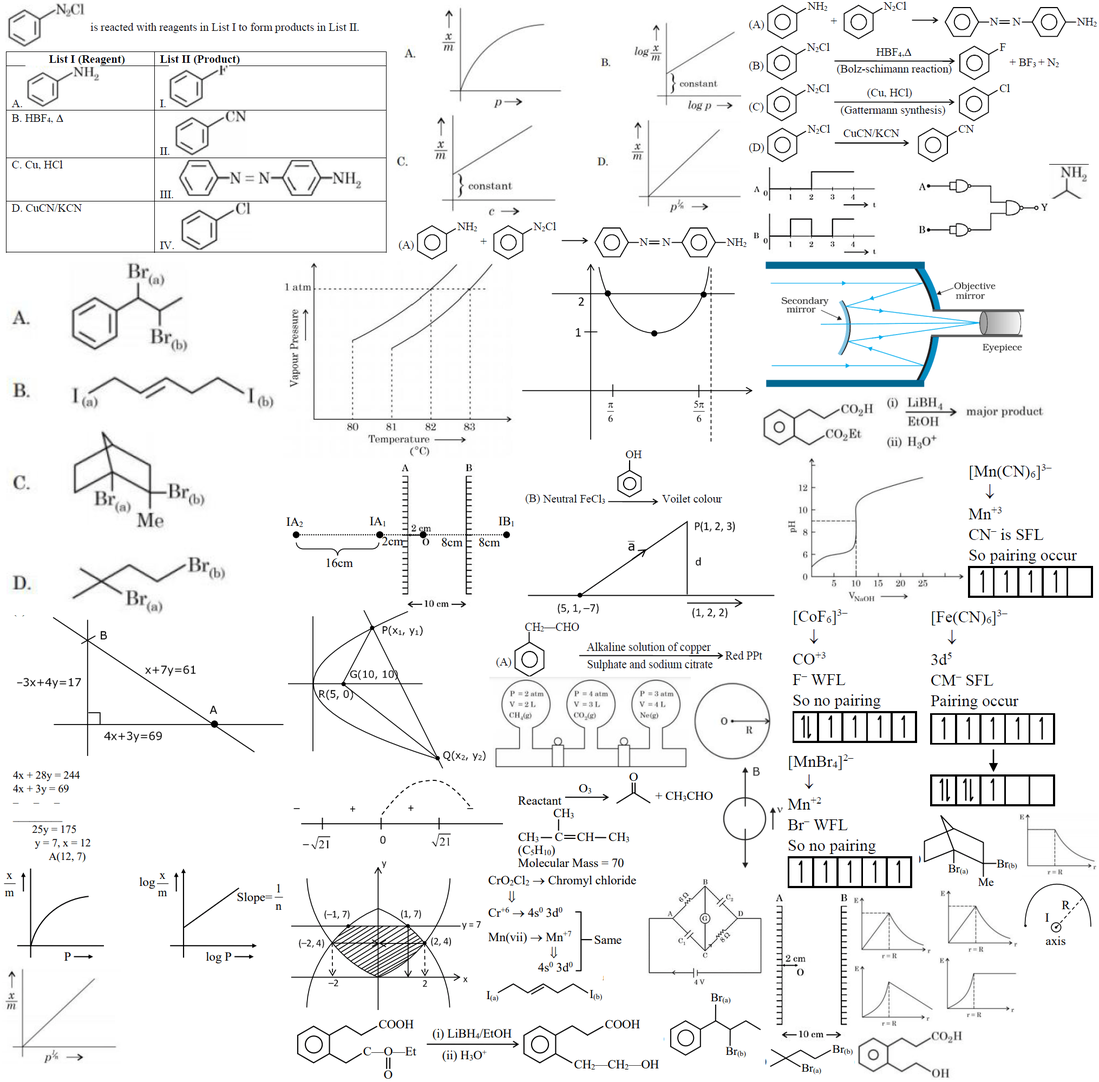
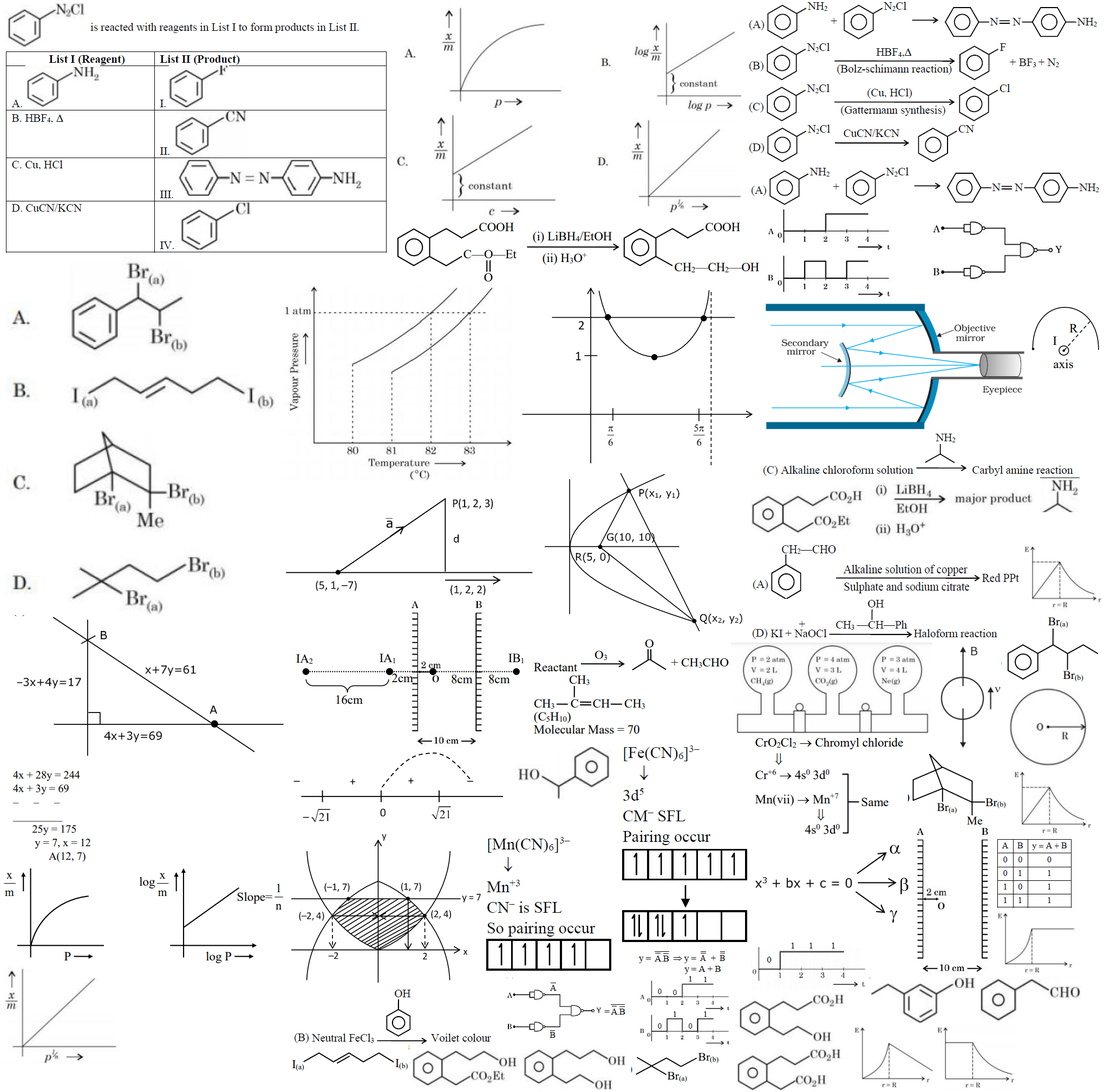
fixed

diff --git a/img/jee/mains/prev/jee_mn_8_apr_2023_s1.css b/img/jee/mains/prev/jee_mn_8_apr_2023_s1.css
@@ -8,175 +8,187 @@ Responsive: <div class="yourspritesname"></div>
 
 
 .JEEMAINS_8APRIL_2023_S1_Q_38 {max-width:237px; max-height:207px; }
-.JEEMAINS_8APRIL_2023_S1_Q_38::after {content: '\00a0';display: inline-block; width:237px; height:207px; background-position: 66.0345789180145% 90.11725293132328%;background-size: 856.5400843881856% 965.2173913043479%;background-image: url(jee_mn_8_apr_2023_s1-0.png);padding: 0; }
+.JEEMAINS_8APRIL_2023_S1_Q_38::after {content: '\00a0';display: inline-block; width:237px; height:207px; background-position: 0.1652892561983471% 90.72847682119205%;background-size: 355.2742616033755% 245.89371980676327%;background-image: url(jee_mn_8_apr_2023_s1-1.png);padding: 0; }
 div.JEEMAINS_8APRIL_2023_S1_Q_38::after {max-width:237px; width:100%;height:0;padding: 0 0 87.34177215189874% 0;}
 .JEEMAINS_8APRIL_2023_S1_Q_41 {max-width:148px; max-height:158px; }
-.JEEMAINS_8APRIL_2023_S1_Q_41::after {content: '\00a0';display: inline-block; width:148px; height:158px; background-position: 67.85334750265675% 67.93478260869566%;background-size: 1371.6216216216217% 1264.5569620253164%;background-image: url(jee_mn_8_apr_2023_s1-0.png);padding: 0; }
+.JEEMAINS_8APRIL_2023_S1_Q_41::after {content: '\00a0';display: inline-block; width:148px; height:158px; background-position: 98.36065573770492% 67.83216783216783%;background-size: 1377.7027027027027% 1276.5822784810127%;background-image: url(jee_mn_8_apr_2023_s1-0.png);padding: 0; }
 div.JEEMAINS_8APRIL_2023_S1_Q_41::after {max-width:148px; width:100%;height:0;padding: 0 0 106.75675675675676% 0;}
 .JEEMAINS_8APRIL_2023_S1_Q_41_O_1 {max-width:152px; max-height:125px; }
-.JEEMAINS_8APRIL_2023_S1_Q_41_O_1::after {content: '\00a0';display: inline-block; width:152px; height:125px; background-position: 83.91906283280085% 94.82114255205552%;background-size: 1335.5263157894738% 1598.4%;background-image: url(jee_mn_8_apr_2023_s1-0.png);padding: 0; }
+.JEEMAINS_8APRIL_2023_S1_Q_41_O_1::after {content: '\00a0';display: inline-block; width:152px; height:125px; background-position: 83.51881293057764% 99.89429175475686%;background-size: 1341.4473684210527% 1613.6%;background-image: url(jee_mn_8_apr_2023_s1-0.png);padding: 0; }
 div.JEEMAINS_8APRIL_2023_S1_Q_41_O_1::after {max-width:152px; width:100%;height:0;padding: 0 0 82.23684210526316% 0;}
 .JEEMAINS_8APRIL_2023_S1_Q_41_O_2 {max-width:148px; max-height:123px; }
-.JEEMAINS_8APRIL_2023_S1_Q_41_O_2::after {content: '\00a0';display: inline-block; width:148px; height:123px; background-position: 99.94686503719447% 79.78666666666666%;background-size: 1371.6216216216217% 1624.3902439024391%;background-image: url(jee_mn_8_apr_2023_s1-0.png);padding: 0; }
+.JEEMAINS_8APRIL_2023_S1_Q_41_O_2::after {content: '\00a0';display: inline-block; width:148px; height:123px; background-position: 91.43310417768376% 99.78880675818374%;background-size: 1377.7027027027027% 1639.8373983739837%;background-image: url(jee_mn_8_apr_2023_s1-0.png);padding: 0; }
 div.JEEMAINS_8APRIL_2023_S1_Q_41_O_2::after {max-width:148px; width:100%;height:0;padding: 0 0 83.10810810810811% 0;}
 .JEEMAINS_8APRIL_2023_S1_Q_41_O_3 {max-width:161px; max-height:122px; }
-.JEEMAINS_8APRIL_2023_S1_Q_41_O_3::after {content: '\00a0';display: inline-block; width:161px; height:122px; background-position: 92.50936329588015% 93.97654584221749%;background-size: 1260.8695652173913% 1637.704918032787%;background-image: url(jee_mn_8_apr_2023_s1-0.png);padding: 0; }
+.JEEMAINS_8APRIL_2023_S1_Q_41_O_3::after {content: '\00a0';display: inline-block; width:161px; height:122px; background-position: 97.76357827476038% 88.7071240105541%;background-size: 1266.4596273291925% 1653.27868852459%;background-image: url(jee_mn_8_apr_2023_s1-0.png);padding: 0; }
 div.JEEMAINS_8APRIL_2023_S1_Q_41_O_3::after {max-width:161px; width:100%;height:0;padding: 0 0 75.77639751552795% 0;}
 .JEEMAINS_8APRIL_2023_S1_Q_41_O_4 {max-width:147px; max-height:127px; }
-.JEEMAINS_8APRIL_2023_S1_Q_41_O_4::after {content: '\00a0';display: inline-block; width:147px; height:127px; background-position: 83.69622942113648% 88.08123997862106%;background-size: 1380.952380952381% 1573.2283464566929%;background-image: url(jee_mn_8_apr_2023_s1-0.png);padding: 0; }
+.JEEMAINS_8APRIL_2023_S1_Q_41_O_4::after {content: '\00a0';display: inline-block; width:147px; height:127px; background-position: 99.94714587737843% 52.91005291005291%;background-size: 1387.0748299319728% 1588.1889763779527%;background-image: url(jee_mn_8_apr_2023_s1-0.png);padding: 0; }
 div.JEEMAINS_8APRIL_2023_S1_Q_41_O_4::after {max-width:147px; width:100%;height:0;padding: 0 0 86.39455782312925% 0;}
 .JEEMAINS_8APRIL_2023_S1_Q_46 {max-width:552px; max-height:173px; }
-.JEEMAINS_8APRIL_2023_S1_Q_46::after {content: '\00a0';display: inline-block; width:552px; height:173px; background-position: 93.70771312584574% 16.602739726027398%;background-size: 367.7536231884058% 1154.913294797688%;background-image: url(jee_mn_8_apr_2023_s1-0.png);padding: 0; }
+.JEEMAINS_8APRIL_2023_S1_Q_46::after {content: '\00a0';display: inline-block; width:552px; height:173px; background-position: 94.88903833221251% 20.66160520607375%;background-size: 369.3840579710145% 1165.8959537572255%;background-image: url(jee_mn_8_apr_2023_s1-0.png);padding: 0; }
 div.JEEMAINS_8APRIL_2023_S1_Q_46::after {max-width:552px; width:100%;height:0;padding: 0 0 31.340579710144926% 0;}
 .JEEMAINS_8APRIL_2023_S1_Q_46_O_1 {max-width:292px; max-height:115px; }
-.JEEMAINS_8APRIL_2023_S1_Q_46_O_1::after {content: '\00a0';display: inline-block; width:292px; height:115px; background-position: 50.08237232289951% 45.81005586592179%;background-size: 307.8767123287671% 411.30434782608694%;background-image: url(jee_mn_8_apr_2023_s1-1.png);padding: 0; }
+.JEEMAINS_8APRIL_2023_S1_Q_46_O_1::after {content: '\00a0';display: inline-block; width:292px; height:115px; background-position: 98.36363636363636% 99.49238578680203%;background-size: 288.35616438356163% 442.60869565217394%;background-image: url(jee_mn_8_apr_2023_s1-1.png);padding: 0; }
 div.JEEMAINS_8APRIL_2023_S1_Q_46_O_1::after {max-width:292px; width:100%;height:0;padding: 0 0 39.38356164383562% 0;}
 .JEEMAINS_8APRIL_2023_S1_Q_46_O_2 {max-width:301px; max-height:116px; }
-.JEEMAINS_8APRIL_2023_S1_Q_46_O_2::after {content: '\00a0';display: inline-block; width:301px; height:116px; background-position: 99.83277591973244% 47.05882352941177%;background-size: 298.67109634551497% 407.7586206896552%;background-image: url(jee_mn_8_apr_2023_s1-1.png);padding: 0; }
+.JEEMAINS_8APRIL_2023_S1_Q_46_O_2::after {content: '\00a0';display: inline-block; width:301px; height:116px; background-position: 44.177449168207026% 99.74554707379134%;background-size: 279.734219269103% 438.7931034482759%;background-image: url(jee_mn_8_apr_2023_s1-1.png);padding: 0; }
 div.JEEMAINS_8APRIL_2023_S1_Q_46_O_2::after {max-width:301px; width:100%;height:0;padding: 0 0 38.538205980066444% 0;}
 .JEEMAINS_8APRIL_2023_S1_Q_46_O_3 {max-width:302px; max-height:117px; }
-.JEEMAINS_8APRIL_2023_S1_Q_46_O_3::after {content: '\00a0';display: inline-block; width:302px; height:117px; background-position: 0.16750418760469013% 46.06741573033708%;background-size: 297.682119205298% 404.2735042735043%;background-image: url(jee_mn_8_apr_2023_s1-1.png);padding: 0; }
+.JEEMAINS_8APRIL_2023_S1_Q_46_O_3::after {content: '\00a0';display: inline-block; width:302px; height:117px; background-position: 44.25925925925926% 69.89795918367346%;background-size: 278.8079470198675% 435.04273504273505%;background-image: url(jee_mn_8_apr_2023_s1-1.png);padding: 0; }
 div.JEEMAINS_8APRIL_2023_S1_Q_46_O_3::after {max-width:302px; width:100%;height:0;padding: 0 0 38.741721854304636% 0;}
 .JEEMAINS_8APRIL_2023_S1_Q_46_O_4 {max-width:298px; max-height:112px; }
-.JEEMAINS_8APRIL_2023_S1_Q_46_O_4::after {content: '\00a0';display: inline-block; width:298px; height:112px; background-position: 0.16638935108153077% 78.11634349030471%;background-size: 301.67785234899327% 422.32142857142856%;background-image: url(jee_mn_8_apr_2023_s1-1.png);padding: 0; }
+.JEEMAINS_8APRIL_2023_S1_Q_46_O_4::after {content: '\00a0';display: inline-block; width:298px; height:112px; background-position: 99.63235294117646% 69.0176322418136%;background-size: 282.5503355704698% 454.4642857142857%;background-image: url(jee_mn_8_apr_2023_s1-1.png);padding: 0; }
 div.JEEMAINS_8APRIL_2023_S1_Q_46_O_4::after {max-width:298px; width:100%;height:0;padding: 0 0 37.58389261744966% 0;}
 .JEEMAINS_8APRIL_2023_S1_Q_56 {max-width:153px; max-height:275px; }
-.JEEMAINS_8APRIL_2023_S1_Q_56::after {content: '\00a0';display: inline-block; width:153px; height:275px; background-position: 75.75919019712308% 95.64712710388856%;background-size: 1326.797385620915% 726.5454545454545%;background-image: url(jee_mn_8_apr_2023_s1-0.png);padding: 0; }
+.JEEMAINS_8APRIL_2023_S1_Q_56::after {content: '\00a0';display: inline-block; width:153px; height:275px; background-position: 89.18345705196182% 87.60045924225028%;background-size: 1332.6797385620914% 733.4545454545455%;background-image: url(jee_mn_8_apr_2023_s1-0.png);padding: 0; }
 div.JEEMAINS_8APRIL_2023_S1_Q_56::after {max-width:153px; width:100%;height:0;padding: 0 0 179.73856209150327% 0;}
 .JEEMAINS_8APRIL_2023_S1_Q_69 {max-width:542px; max-height:117px; }
-.JEEMAINS_8APRIL_2023_S1_Q_69::after {content: '\00a0';display: inline-block; width:542px; height:117px; background-position: 94.01881720430107% 38.33067517278044%;background-size: 374.5387453874539% 1707.6923076923076%;background-image: url(jee_mn_8_apr_2023_s1-0.png);padding: 0; }
+.JEEMAINS_8APRIL_2023_S1_Q_69::after {content: '\00a0';display: inline-block; width:542px; height:117px; background-position: 92.0507682030728% 46.421052631578945%;background-size: 376.19926199261994% 1723.931623931624%;background-image: url(jee_mn_8_apr_2023_s1-0.png);padding: 0; }
 div.JEEMAINS_8APRIL_2023_S1_Q_69::after {max-width:542px; width:100%;height:0;padding: 0 0 21.58671586715867% 0;}
 .JEEMAINS_8APRIL_2023_S1_Q_69_O_1 {max-width:200px; max-height:77px; }
-.JEEMAINS_8APRIL_2023_S1_Q_69_O_1::after {content: '\00a0';display: inline-block; width:200px; height:77px; background-position: 0.1430615164520744% 99.74747474747475%;background-size: 449.5% 614.2857142857143%;background-image: url(jee_mn_8_apr_2023_s1-1.png);padding: 0; }
+.JEEMAINS_8APRIL_2023_S1_Q_69_O_1::after {content: '\00a0';display: inline-block; width:200px; height:77px; background-position: 41.1636759108211% 99.48453608247422%;background-size: 1019.5% 2619.4805194805194%;background-image: url(jee_mn_8_apr_2023_s1-0.png);padding: 0; }
 div.JEEMAINS_8APRIL_2023_S1_Q_69_O_1::after {max-width:200px; width:100%;height:0;padding: 0 0 38.5% 0;}
 .JEEMAINS_8APRIL_2023_S1_Q_69_O_2 {max-width:197px; max-height:87px; }
-.JEEMAINS_8APRIL_2023_S1_Q_69_O_2::after {content: '\00a0';display: inline-block; width:197px; height:87px; background-position: 70.65527065527066% 73.83419689119171%;background-size: 456.34517766497464% 543.6781609195402%;background-image: url(jee_mn_8_apr_2023_s1-1.png);padding: 0; }
+.JEEMAINS_8APRIL_2023_S1_Q_69_O_2::after {content: '\00a0';display: inline-block; width:197px; height:87px; background-position: 73.7785016286645% 99.89637305699482%;background-size: 1035.0253807106599% 2318.390804597701%;background-image: url(jee_mn_8_apr_2023_s1-0.png);padding: 0; }
 div.JEEMAINS_8APRIL_2023_S1_Q_69_O_2::after {max-width:197px; width:100%;height:0;padding: 0 0 44.16243654822335% 0;}
 .JEEMAINS_8APRIL_2023_S1_Q_69_O_3 {max-width:207px; max-height:88px; }
-.JEEMAINS_8APRIL_2023_S1_Q_69_O_3::after {content: '\00a0';display: inline-block; width:207px; height:88px; background-position: 43.35260115606936% 98.18181818181819%;background-size: 434.2995169082126% 537.5%;background-image: url(jee_mn_8_apr_2023_s1-1.png);padding: 0; }
+.JEEMAINS_8APRIL_2023_S1_Q_69_O_3::after {content: '\00a0';display: inline-block; width:207px; height:88px; background-position: 52.29257641921397% 99.94815966822188%;background-size: 985.024154589372% 2292.0454545454545%;background-image: url(jee_mn_8_apr_2023_s1-0.png);padding: 0; }
 div.JEEMAINS_8APRIL_2023_S1_Q_69_O_3::after {max-width:207px; width:100%;height:0;padding: 0 0 42.51207729468599% 0;}
 .JEEMAINS_8APRIL_2023_S1_Q_69_O_4 {max-width:216px; max-height:92px; }
-.JEEMAINS_8APRIL_2023_S1_Q_69_O_4::after {content: '\00a0';display: inline-block; width:216px; height:92px; background-position: 86.99007717750827% 99.79013641133264%;background-size: 939.8148148148148% 2171.7391304347825%;background-image: url(jee_mn_8_apr_2023_s1-0.png);padding: 0; }
+.JEEMAINS_8APRIL_2023_S1_Q_69_O_4::after {content: '\00a0';display: inline-block; width:216px; height:92px; background-position: 74.54744925946243% 95.32467532467533%;background-size: 943.9814814814815% 2192.391304347826%;background-image: url(jee_mn_8_apr_2023_s1-0.png);padding: 0; }
 div.JEEMAINS_8APRIL_2023_S1_Q_69_O_4::after {max-width:216px; width:100%;height:0;padding: 0 0 42.592592592592595% 0;}
 .JEEMAINS_8APRIL_2023_S1_Q_73_O_1 {max-width:191px; max-height:97px; }
-.JEEMAINS_8APRIL_2023_S1_Q_73_O_1::after {content: '\00a0';display: inline-block; width:191px; height:97px; background-position: 42.93785310734463% 74.46808510638297%;background-size: 470.6806282722513% 487.62886597938143%;background-image: url(jee_mn_8_apr_2023_s1-1.png);padding: 0; }
+.JEEMAINS_8APRIL_2023_S1_Q_73_O_1::after {content: '\00a0';display: inline-block; width:191px; height:97px; background-position: 51.298701298701296% 71.875%;background-size: 1067.5392670157069% 2079.381443298969%;background-image: url(jee_mn_8_apr_2023_s1-0.png);padding: 0; }
 div.JEEMAINS_8APRIL_2023_S1_Q_73_O_1::after {max-width:191px; width:100%;height:0;padding: 0 0 50.78534031413613% 0;}
 .JEEMAINS_8APRIL_2023_S1_Q_73_O_2 {max-width:73px; max-height:67px; }
-.JEEMAINS_8APRIL_2023_S1_Q_73_O_2::after {content: '\00a0';display: inline-block; width:73px; height:67px; background-position: 99.02912621359224% 15.69135163127913%;background-size: 2780.821917808219% 2982.089552238806%;background-image: url(jee_mn_8_apr_2023_s1-0.png);padding: 0; }
+.JEEMAINS_8APRIL_2023_S1_Q_73_O_2::after {content: '\00a0';display: inline-block; width:73px; height:67px; background-position: 97.71108850457782% 45.23076923076923%;background-size: 2793.150684931507% 3010.4477611940297%;background-image: url(jee_mn_8_apr_2023_s1-0.png);padding: 0; }
 div.JEEMAINS_8APRIL_2023_S1_Q_73_O_2::after {max-width:73px; width:100%;height:0;padding: 0 0 91.78082191780823% 0;}
 .JEEMAINS_8APRIL_2023_S1_Q_73_O_3 {max-width:193px; max-height:83px; }
-.JEEMAINS_8APRIL_2023_S1_Q_73_O_3::after {content: '\00a0';display: inline-block; width:193px; height:83px; background-position: 71.95467422096317% 95.64102564102564%;background-size: 465.8031088082902% 569.8795180722891%;background-image: url(jee_mn_8_apr_2023_s1-1.png);padding: 0; }
+.JEEMAINS_8APRIL_2023_S1_Q_73_O_3::after {content: '\00a0';display: inline-block; width:193px; height:83px; background-position: 97.72481040086674% 93.27817993795243%;background-size: 1056.4766839378237% 2430.120481927711%;background-image: url(jee_mn_8_apr_2023_s1-0.png);padding: 0; }
 div.JEEMAINS_8APRIL_2023_S1_Q_73_O_3::after {max-width:193px; width:100%;height:0;padding: 0 0 43.005181347150256% 0;}
 .JEEMAINS_8APRIL_2023_S1_Q_73_O_4 {max-width:197px; max-height:87px; }
-.JEEMAINS_8APRIL_2023_S1_Q_73_O_4::after {content: '\00a0';display: inline-block; width:197px; height:87px; background-position: 98.86039886039886% 73.83419689119171%;background-size: 456.34517766497464% 543.6781609195402%;background-image: url(jee_mn_8_apr_2023_s1-1.png);padding: 0; }
+.JEEMAINS_8APRIL_2023_S1_Q_73_O_4::after {content: '\00a0';display: inline-block; width:197px; height:87px; background-position: 87.18783930510315% 93.3678756476684%;background-size: 1035.0253807106599% 2318.390804597701%;background-image: url(jee_mn_8_apr_2023_s1-0.png);padding: 0; }
 div.JEEMAINS_8APRIL_2023_S1_Q_73_O_4::after {max-width:197px; width:100%;height:0;padding: 0 0 44.16243654822335% 0;}
 .JEEMAINS_8APRIL_2023_S1_Q_74 {max-width:717px; max-height:467px; }
-.JEEMAINS_8APRIL_2023_S1_Q_74::after {content: '\00a0';display: inline-block; width:717px; height:467px; background-position: 0.07616146230007616% 0.06531678641410843%;background-size: 283.12412831241284% 427.83725910064237%;background-image: url(jee_mn_8_apr_2023_s1-0.png);padding: 0; }
+.JEEMAINS_8APRIL_2023_S1_Q_74::after {content: '\00a0';display: inline-block; width:717px; height:467px; background-position: 0.07564296520423601% 0.06451612903225806%;background-size: 284.3793584379358% 431.9057815845824%;background-image: url(jee_mn_8_apr_2023_s1-0.png);padding: 0; }
 div.JEEMAINS_8APRIL_2023_S1_Q_74::after {max-width:717px; width:100%;height:0;padding: 0 0 65.13249651324965% 0;}
 .JEEMAINS_8APRIL_2023_S1_Q_78 {max-width:650px; max-height:402px; }
-.JEEMAINS_8APRIL_2023_S1_Q_78::after {content: '\00a0';display: inline-block; width:650px; height:402px; background-position: 52.10144927536232% 0.06265664160401002%;background-size: 312.3076923076923% 497.0149253731343%;background-image: url(jee_mn_8_apr_2023_s1-0.png);padding: 0; }
+.JEEMAINS_8APRIL_2023_S1_Q_78::after {content: '\00a0';display: inline-block; width:650px; height:402px; background-position: 51.7638588912887% 0.06191950464396285%;background-size: 313.6923076923077% 501.7412935323383%;background-image: url(jee_mn_8_apr_2023_s1-0.png);padding: 0; }
 div.JEEMAINS_8APRIL_2023_S1_Q_78::after {max-width:650px; width:100%;height:0;padding: 0 0 61.84615384615385% 0;}
 .JEEMAINS_8APRIL_2023_S1_Q_80 {max-width:510px; max-height:666px; }
-.JEEMAINS_8APRIL_2023_S1_Q_80::after {content: '\00a0';display: inline-block; width:510px; height:666px; background-position: 0.06578947368421052% 35.210210210210214%;background-size: 398.03921568627453% 300%;background-image: url(jee_mn_8_apr_2023_s1-0.png);padding: 0; }
+.JEEMAINS_8APRIL_2023_S1_Q_80::after {content: '\00a0';display: inline-block; width:510px; height:666px; background-position: 0.06540222367560497% 34.715025906735754%;background-size: 399.80392156862746% 302.85285285285283%;background-image: url(jee_mn_8_apr_2023_s1-0.png);padding: 0; }
 div.JEEMAINS_8APRIL_2023_S1_Q_80::after {max-width:510px; width:100%;height:0;padding: 0 0 130.58823529411765% 0;}
 .JEEMAINS_8APRIL_2023_S1_Q_84 {max-width:331px; max-height:272px; }
-.JEEMAINS_8APRIL_2023_S1_Q_84::after {content: '\00a0';display: inline-block; width:331px; height:272px; background-position: 85.40317834020011% 48.60950173812283%;background-size: 613.2930513595167% 734.5588235294117%;background-image: url(jee_mn_8_apr_2023_s1-0.png);padding: 0; }
+.JEEMAINS_8APRIL_2023_S1_Q_84::after {content: '\00a0';display: inline-block; width:331px; height:272px; background-position: 0.19569471624266144% 0.4219409282700422%;background-size: 254.380664652568% 187.13235294117646%;background-image: url(jee_mn_8_apr_2023_s1-1.png);padding: 0; }
 div.JEEMAINS_8APRIL_2023_S1_Q_84::after {max-width:331px; width:100%;height:0;padding: 0 0 82.17522658610272% 0;}
 .JEEMAINS_8APRIL_2023_S1_Q_86 {max-width:448px; max-height:365px; }
-.JEEMAINS_8APRIL_2023_S1_Q_86::after {content: '\00a0';display: inline-block; width:448px; height:365px; background-position: 32.36409608091024% 29.516227801592162%;background-size: 453.125% 547.3972602739726%;background-image: url(jee_mn_8_apr_2023_s1-0.png);padding: 0; }
+.JEEMAINS_8APRIL_2023_S1_Q_86::after {content: '\00a0';display: inline-block; width:448px; height:365px; background-position: 32.181018227529854% 31.840193704600484%;background-size: 455.13392857142856% 552.6027397260274%;background-image: url(jee_mn_8_apr_2023_s1-0.png);padding: 0; }
 div.JEEMAINS_8APRIL_2023_S1_Q_86::after {max-width:448px; width:100%;height:0;padding: 0 0 81.47321428571429% 0;}
 .JEEMAINS_8APRIL_2023_S1_Q_89 {max-width:372px; max-height:172px; }
-.JEEMAINS_8APRIL_2023_S1_Q_89::after {content: '\00a0';display: inline-block; width:372px; height:172px; background-position: 54.523522316043426% 68.45564074479738%;background-size: 545.6989247311828% 1161.6279069767443%;background-image: url(jee_mn_8_apr_2023_s1-0.png);padding: 0; }
+.JEEMAINS_8APRIL_2023_S1_Q_89::after {content: '\00a0';display: inline-block; width:372px; height:172px; background-position: 80.98380323935213% 64.3360433604336%;background-size: 548.1182795698925% 1172.6744186046512%;background-image: url(jee_mn_8_apr_2023_s1-0.png);padding: 0; }
 div.JEEMAINS_8APRIL_2023_S1_Q_89::after {max-width:372px; width:100%;height:0;padding: 0 0 46.236559139784944% 0;}
 .JEEMAINS_8APRIL_2023_S1_S_1 {max-width:358px; max-height:297px; }
-.JEEMAINS_8APRIL_2023_S1_S_1::after {content: '\00a0';display: inline-block; width:358px; height:297px; background-position: 31.9377990430622% 92.7689594356261%;background-size: 567.0391061452514% 672.7272727272727%;background-image: url(jee_mn_8_apr_2023_s1-0.png);padding: 0; }
+.JEEMAINS_8APRIL_2023_S1_S_1::after {content: '\00a0';display: inline-block; width:358px; height:297px; background-position: 31.766805472932777% 88.83720930232558%;background-size: 569.5530726256983% 679.1245791245791%;background-image: url(jee_mn_8_apr_2023_s1-0.png);padding: 0; }
 div.JEEMAINS_8APRIL_2023_S1_S_1::after {max-width:358px; width:100%;height:0;padding: 0 0 82.9608938547486% 0;}
 .JEEMAINS_8APRIL_2023_S1_S_23 {max-width:491px; max-height:208px; }
-.JEEMAINS_8APRIL_2023_S1_S_23::after {content: '\00a0';display: inline-block; width:491px; height:208px; background-position: 62.31319038336582% 52.17877094972067%;background-size: 413.44195519348267% 960.5769230769231%;background-image: url(jee_mn_8_apr_2023_s1-0.png);padding: 0; }
+.JEEMAINS_8APRIL_2023_S1_S_23::after {content: '\00a0';display: inline-block; width:491px; height:208px; background-position: 33.07493540051679% 49.309010503040355%;background-size: 415.27494908350303% 969.7115384615385%;background-image: url(jee_mn_8_apr_2023_s1-0.png);padding: 0; }
 div.JEEMAINS_8APRIL_2023_S1_S_23::after {max-width:491px; width:100%;height:0;padding: 0 0 42.36252545824847% 0;}
 .JEEMAINS_8APRIL_2023_S1_S_27 {max-width:417px; max-height:147px; }
-.JEEMAINS_8APRIL_2023_S1_S_27::after {content: '\00a0';display: inline-block; width:417px; height:147px; background-position: 32.858028518288904% 77.25553754727174%;background-size: 486.810551558753% 1359.1836734693877%;background-image: url(jee_mn_8_apr_2023_s1-0.png);padding: 0; }
+.JEEMAINS_8APRIL_2023_S1_S_27::after {content: '\00a0';display: inline-block; width:417px; height:147px; background-position: 32.675709001233045% 73.79679144385027%;background-size: 488.96882494004797% 1372.108843537415%;background-image: url(jee_mn_8_apr_2023_s1-0.png);padding: 0; }
 div.JEEMAINS_8APRIL_2023_S1_S_27::after {max-width:417px; width:100%;height:0;padding: 0 0 35.25179856115108% 0;}
 .JEEMAINS_8APRIL_2023_S1_S_30 {max-width:437px; max-height:347px; }
-.JEEMAINS_8APRIL_2023_S1_S_30::after {content: '\00a0';display: inline-block; width:437px; height:347px; background-position: 60.32642812303829% 29.19442761962447%;background-size: 464.5308924485126% 575.792507204611%;background-image: url(jee_mn_8_apr_2023_s1-0.png);padding: 0; }
+.JEEMAINS_8APRIL_2023_S1_S_30::after {content: '\00a0';display: inline-block; width:437px; height:347px; background-position: 59.98751560549314% 31.49700598802395%;background-size: 466.5903890160183% 581.2680115273776%;background-image: url(jee_mn_8_apr_2023_s1-0.png);padding: 0; }
 div.JEEMAINS_8APRIL_2023_S1_S_30::after {max-width:437px; width:100%;height:0;padding: 0 0 79.40503432494279% 0;}
 .JEEMAINS_8APRIL_2023_S1_S_4 {max-width:528px; max-height:463px; }
-.JEEMAINS_8APRIL_2023_S1_S_4::after {content: '\00a0';display: inline-block; width:528px; height:463px; background-position: 0.06657789613848203% 74.00651465798046%;background-size: 384.469696969697% 431.53347732181425%;background-image: url(jee_mn_8_apr_2023_s1-0.png);padding: 0; }
+.JEEMAINS_8APRIL_2023_S1_S_4::after {content: '\00a0';display: inline-block; width:528px; height:463px; background-position: 0.06618133686300463% 73.1016731016731%;background-size: 386.17424242424244% 435.6371490280778%;background-image: url(jee_mn_8_apr_2023_s1-0.png);padding: 0; }
 div.JEEMAINS_8APRIL_2023_S1_S_4::after {max-width:528px; width:100%;height:0;padding: 0 0 87.68939393939394% 0;}
 .JEEMAINS_8APRIL_2023_S1_S_41 {max-width:161px; max-height:123px; }
-.JEEMAINS_8APRIL_2023_S1_S_41::after {content: '\00a0';display: inline-block; width:161px; height:123px; background-position: 92.2418405564473% 87.41333333333333%;background-size: 1260.8695652173913% 1624.3902439024391%;background-image: url(jee_mn_8_apr_2023_s1-0.png);padding: 0; }
+.JEEMAINS_8APRIL_2023_S1_S_41::after {content: '\00a0';display: inline-block; width:161px; height:123px; background-position: 99.04153354632588% 74.97360084477296%;background-size: 1266.4596273291925% 1639.8373983739837%;background-image: url(jee_mn_8_apr_2023_s1-0.png);padding: 0; }
 div.JEEMAINS_8APRIL_2023_S1_S_41::after {max-width:161px; width:100%;height:0;padding: 0 0 76.3975155279503% 0;}
+.JEEMAINS_8APRIL_2023_S1_S_46 {max-width:246px; max-height:121px; }
+.JEEMAINS_8APRIL_2023_S1_S_46::after {content: '\00a0';display: inline-block; width:246px; height:121px; background-position: 51.58951477969883% 95.25316455696202%;background-size: 828.8617886178862% 1666.9421487603306%;background-image: url(jee_mn_8_apr_2023_s1-0.png);padding: 0; }
+div.JEEMAINS_8APRIL_2023_S1_S_46::after {max-width:246px; width:100%;height:0;padding: 0 0 49.1869918699187% 0;}
+.JEEMAINS_8APRIL_2023_S1_S_46_1 {max-width:186px; max-height:191px; }
+.JEEMAINS_8APRIL_2023_S1_S_46_1::after {content: '\00a0';display: inline-block; width:186px; height:191px; background-position: 63.24878575283324% 95.6736035049288%;background-size: 1096.236559139785% 1056.0209424083769%;background-image: url(jee_mn_8_apr_2023_s1-0.png);padding: 0; }
+div.JEEMAINS_8APRIL_2023_S1_S_46_1::after {max-width:186px; width:100%;height:0;padding: 0 0 102.68817204301075% 0;}
+.JEEMAINS_8APRIL_2023_S1_S_46_1_a {max-width:150px; max-height:136px; }
+.JEEMAINS_8APRIL_2023_S1_S_46_1_a::after {content: '\00a0';display: inline-block; width:150px; height:136px; background-position: 97.19428268925357% 82.08399787347156%;background-size: 1359.3333333333333% 1483.0882352941176%;background-image: url(jee_mn_8_apr_2023_s1-0.png);padding: 0; }
+div.JEEMAINS_8APRIL_2023_S1_S_46_1_a::after {max-width:150px; width:100%;height:0;padding: 0 0 90.66666666666667% 0;}
+.JEEMAINS_8APRIL_2023_S1_S_46_2 {max-width:219px; max-height:119px; }
+.JEEMAINS_8APRIL_2023_S1_S_46_2::after {content: '\00a0';display: inline-block; width:219px; height:119px; background-position: 76.15384615384616% 90.35827186512118%;background-size: 931.0502283105022% 1694.9579831932774%;background-image: url(jee_mn_8_apr_2023_s1-0.png);padding: 0; }
+div.JEEMAINS_8APRIL_2023_S1_S_46_2::after {max-width:219px; width:100%;height:0;padding: 0 0 54.337899543378995% 0;}
 .JEEMAINS_8APRIL_2023_S1_S_5 {max-width:295px; max-height:166px; }
-.JEEMAINS_8APRIL_2023_S1_S_5::after {content: '\00a0';display: inline-block; width:295px; height:166px; background-position: 99.00662251655629% 0.3257328990228013%;background-size: 304.7457627118644% 284.93975903614455%;background-image: url(jee_mn_8_apr_2023_s1-1.png);padding: 0; }
+.JEEMAINS_8APRIL_2023_S1_S_5::after {content: '\00a0';display: inline-block; width:295px; height:166px; background-position: 79.47247706422019% 83.63047001620745%;background-size: 691.1864406779661% 1215.0602409638554%;background-image: url(jee_mn_8_apr_2023_s1-0.png);padding: 0; }
 div.JEEMAINS_8APRIL_2023_S1_S_5::after {max-width:295px; width:100%;height:0;padding: 0 0 56.271186440677965% 0;}
 .JEEMAINS_8APRIL_2023_S1_S_50 {max-width:500px; max-height:243px; }
-.JEEMAINS_8APRIL_2023_S1_S_50::after {content: '\00a0';display: inline-block; width:500px; height:243px; background-position: 91.43790849673202% 27.17948717948718%;background-size: 406% 822.2222222222222%;background-image: url(jee_mn_8_apr_2023_s1-0.png);padding: 0; }
+.JEEMAINS_8APRIL_2023_S1_S_50::after {content: '\00a0';display: inline-block; width:500px; height:243px; background-position: 90.90318388564003% 31.285231116121757%;background-size: 407.8% 830.0411522633744%;background-image: url(jee_mn_8_apr_2023_s1-0.png);padding: 0; }
 div.JEEMAINS_8APRIL_2023_S1_S_50::after {max-width:500px; width:100%;height:0;padding: 0 0 48.6% 0;}
 .JEEMAINS_8APRIL_2023_S1_S_55 {max-width:135px; max-height:127px; }
-.JEEMAINS_8APRIL_2023_S1_S_55::after {content: '\00a0';display: inline-block; width:135px; height:127px; background-position: 99.52506596306068% 86.58471405665419%;background-size: 1503.7037037037037% 1573.2283464566929%;background-image: url(jee_mn_8_apr_2023_s1-0.png);padding: 0; }
+.JEEMAINS_8APRIL_2023_S1_S_55::after {content: '\00a0';display: inline-block; width:135px; height:127px; background-position: 99.78991596638656% 29.365079365079364%;background-size: 1510.3703703703704% 1588.1889763779527%;background-image: url(jee_mn_8_apr_2023_s1-0.png);padding: 0; }
 div.JEEMAINS_8APRIL_2023_S1_S_55::after {max-width:135px; width:100%;height:0;padding: 0 0 94.07407407407408% 0;}
 .JEEMAINS_8APRIL_2023_S1_S_56 {max-width:446px; max-height:278px; }
-.JEEMAINS_8APRIL_2023_S1_S_56::after {content: '\00a0';display: inline-block; width:446px; height:278px; background-position: 32.323232323232325% 49.30232558139535%;background-size: 455.15695067264573% 718.705035971223%;background-image: url(jee_mn_8_apr_2023_s1-0.png);padding: 0; }
+.JEEMAINS_8APRIL_2023_S1_S_56::after {content: '\00a0';display: inline-block; width:446px; height:278px; background-position: 33.27055869428751% 63.3122484186314%;background-size: 457.17488789237666% 725.5395683453237%;background-image: url(jee_mn_8_apr_2023_s1-0.png);padding: 0; }
 div.JEEMAINS_8APRIL_2023_S1_S_56::after {max-width:446px; width:100%;height:0;padding: 0 0 62.33183856502242% 0;}
 .JEEMAINS_8APRIL_2023_S1_S_60 {max-width:125px; max-height:195px; }
-.JEEMAINS_8APRIL_2023_S1_S_60::after {content: '\00a0';display: inline-block; width:125px; height:195px; background-position: 69.34383202099738% 78.14753189129229%;background-size: 1624% 1024.6153846153845%;background-image: url(jee_mn_8_apr_2023_s1-0.png);padding: 0; }
+.JEEMAINS_8APRIL_2023_S1_S_60::after {content: '\00a0';display: inline-block; width:125px; height:195px; background-position: 90.0208986415883% 65.14818880351262%;background-size: 1631.2% 1034.3589743589744%;background-image: url(jee_mn_8_apr_2023_s1-0.png);padding: 0; }
 div.JEEMAINS_8APRIL_2023_S1_S_60::after {max-width:125px; width:100%;height:0;padding: 0 0 156% 0;}
 .JEEMAINS_8APRIL_2023_S1_S_65_1 {max-width:257px; max-height:272px; }
-.JEEMAINS_8APRIL_2023_S1_S_65_1::after {content: '\00a0';display: inline-block; width:257px; height:272px; background-position: 81.83869148336153% 64.42641946697567%;background-size: 789.8832684824903% 734.5588235294117%;background-image: url(jee_mn_8_apr_2023_s1-0.png);padding: 0; }
+.JEEMAINS_8APRIL_2023_S1_S_65_1::after {content: '\00a0';display: inline-block; width:257px; height:272px; background-position: 56.92307692307692% 0.4219409282700422%;background-size: 327.6264591439689% 187.13235294117646%;background-image: url(jee_mn_8_apr_2023_s1-1.png);padding: 0; }
 div.JEEMAINS_8APRIL_2023_S1_S_65_1::after {max-width:257px; width:100%;height:0;padding: 0 0 105.83657587548637% 0;}
 .JEEMAINS_8APRIL_2023_S1_S_65_2 {max-width:250px; max-height:262px; }
-.JEEMAINS_8APRIL_2023_S1_S_65_2::after {content: '\00a0';display: inline-block; width:250px; height:262px; background-position: 81.29213483146067% 79.78110599078342%;background-size: 812% 762.5954198473282%;background-image: url(jee_mn_8_apr_2023_s1-0.png);padding: 0; }
+.JEEMAINS_8APRIL_2023_S1_S_65_2::after {content: '\00a0';display: inline-block; width:250px; height:262px; background-position: 99.83108108108108% 0.4048582995951417%;background-size: 336.8% 194.27480916030535%;background-image: url(jee_mn_8_apr_2023_s1-1.png);padding: 0; }
 div.JEEMAINS_8APRIL_2023_S1_S_65_2::after {max-width:250px; width:100%;height:0;padding: 0 0 104.8% 0;}
 .JEEMAINS_8APRIL_2023_S1_S_65_3 {max-width:245px; max-height:378px; }
-.JEEMAINS_8APRIL_2023_S1_S_65_3::after {content: '\00a0';display: inline-block; width:245px; height:378px; background-position: 95.74229691876751% 68.95061728395062%;background-size: 828.5714285714286% 528.5714285714286%;background-image: url(jee_mn_8_apr_2023_s1-0.png);padding: 0; }
+.JEEMAINS_8APRIL_2023_S1_S_65_3::after {content: '\00a0';display: inline-block; width:245px; height:378px; background-position: 63.54515050167224% 83.46552776082977%;background-size: 832.2448979591836% 533.5978835978837%;background-image: url(jee_mn_8_apr_2023_s1-0.png);padding: 0; }
 div.JEEMAINS_8APRIL_2023_S1_S_65_3::after {max-width:245px; width:100%;height:0;padding: 0 0 154.28571428571428% 0;}
 .JEEMAINS_8APRIL_2023_S1_S_65_4 {max-width:246px; max-height:277px; }
-.JEEMAINS_8APRIL_2023_S1_S_65_4::after {content: '\00a0';display: inline-block; width:246px; height:277px; background-position: 99.9439461883408% 48.750726321905866%;background-size: 825.2032520325204% 721.2996389891697%;background-image: url(jee_mn_8_apr_2023_s1-0.png);padding: 0; }
+.JEEMAINS_8APRIL_2023_S1_S_65_4::after {content: '\00a0';display: inline-block; width:246px; height:277px; background-position: 49.8047964305633% 87.816091954023%;background-size: 828.8617886178862% 728.1588447653429%;background-image: url(jee_mn_8_apr_2023_s1-0.png);padding: 0; }
 div.JEEMAINS_8APRIL_2023_S1_S_65_4::after {max-width:246px; width:100%;height:0;padding: 0 0 112.60162601626017% 0;}
 .JEEMAINS_8APRIL_2023_S1_S_69 {max-width:691px; max-height:121px; }
-.JEEMAINS_8APRIL_2023_S1_S_69::after {content: '\00a0';display: inline-block; width:691px; height:121px; background-position: 39.88050784167289% 99.94672349493874%;background-size: 293.77713458755426% 1651.2396694214876%;background-image: url(jee_mn_8_apr_2023_s1-0.png);padding: 0; }
+.JEEMAINS_8APRIL_2023_S1_S_69::after {content: '\00a0';display: inline-block; width:691px; height:121px; background-position: 53.33827893175074% 21.30801687763713%;background-size: 295.0795947901592% 1666.9421487603306%;background-image: url(jee_mn_8_apr_2023_s1-0.png);padding: 0; }
 div.JEEMAINS_8APRIL_2023_S1_S_69::after {max-width:691px; width:100%;height:0;padding: 0 0 17.510853835021706% 0;}
 .JEEMAINS_8APRIL_2023_S1_S_71 {max-width:290px; max-height:187px; }
-.JEEMAINS_8APRIL_2023_S1_S_71::after {content: '\00a0';display: inline-block; width:290px; height:187px; background-position: 51.32183908045977% 89.1220320265047%;background-size: 700% 1068.4491978609626%;background-image: url(jee_mn_8_apr_2023_s1-0.png);padding: 0; }
+.JEEMAINS_8APRIL_2023_S1_S_71::after {content: '\00a0';display: inline-block; width:290px; height:187px; background-position: 79.24528301886792% 74.31693989071039%;background-size: 703.1034482758621% 1078.609625668449%;background-image: url(jee_mn_8_apr_2023_s1-0.png);padding: 0; }
 div.JEEMAINS_8APRIL_2023_S1_S_71::after {max-width:290px; width:100%;height:0;padding: 0 0 64.48275862068965% 0;}
 .JEEMAINS_8APRIL_2023_S1_S_73_1 {max-width:512px; max-height:106px; }
-.JEEMAINS_8APRIL_2023_S1_S_73_1::after {content: '\00a0';display: inline-block; width:512px; height:106px; background-position: 59.55204216073781% 60.4122621564482%;background-size: 396.484375% 1884.9056603773586%;background-image: url(jee_mn_8_apr_2023_s1-0.png);padding: 0; }
+.JEEMAINS_8APRIL_2023_S1_S_73_1::after {content: '\00a0';display: inline-block; width:512px; height:106px; background-position: 90.24230517354289% 52.32862375719519%;background-size: 398.2421875% 1902.8301886792453%;background-image: url(jee_mn_8_apr_2023_s1-0.png);padding: 0; }
 div.JEEMAINS_8APRIL_2023_S1_S_73_1::after {max-width:512px; width:100%;height:0;padding: 0 0 20.703125% 0;}
 .JEEMAINS_8APRIL_2023_S1_S_73_2 {max-width:390px; max-height:103px; }
-.JEEMAINS_8APRIL_2023_S1_S_73_2::after {content: '\00a0';display: inline-block; width:390px; height:103px; background-position: 58.59756097560975% 43.79947229551451%;background-size: 520.5128205128206% 1939.8058252427184%;background-image: url(jee_mn_8_apr_2023_s1-0.png);padding: 0; }
+.JEEMAINS_8APRIL_2023_S1_S_73_2::after {content: '\00a0';display: inline-block; width:390px; height:103px; background-position: 32.38326258338387% 95.40229885057471%;background-size: 522.8205128205128% 1958.2524271844661%;background-image: url(jee_mn_8_apr_2023_s1-0.png);padding: 0; }
 div.JEEMAINS_8APRIL_2023_S1_S_73_2::after {max-width:390px; width:100%;height:0;padding: 0 0 26.41025641025641% 0;}
 .JEEMAINS_8APRIL_2023_S1_S_73_3 {max-width:596px; max-height:82px; }
-.JEEMAINS_8APRIL_2023_S1_S_73_3::after {content: '\00a0';display: inline-block; width:596px; height:82px; background-position: 0.33003300330033003% 0.2557544757033248%;background-size: 150.83892617449663% 576.829268292683%;background-image: url(jee_mn_8_apr_2023_s1-1.png);padding: 0; }
+.JEEMAINS_8APRIL_2023_S1_S_73_3::after {content: '\00a0';display: inline-block; width:596px; height:82px; background-position: 96.95079695079696% 41.291989664082685%;background-size: 342.1140939597315% 2459.756097560976%;background-image: url(jee_mn_8_apr_2023_s1-0.png);padding: 0; }
 div.JEEMAINS_8APRIL_2023_S1_S_73_3::after {max-width:596px; width:100%;height:0;padding: 0 0 13.758389261744966% 0;}
 .JEEMAINS_8APRIL_2023_S1_S_73_4 {max-width:467px; max-height:79px; }
-.JEEMAINS_8APRIL_2023_S1_S_73_4::after {content: '\00a0';display: inline-block; width:467px; height:79px; background-position: 0.23148148148148148% 21.31979695431472%;background-size: 192.5053533190578% 598.7341772151899%;background-image: url(jee_mn_8_apr_2023_s1-1.png);padding: 0; }
+.JEEMAINS_8APRIL_2023_S1_S_73_4::after {content: '\00a0';display: inline-block; width:467px; height:79px; background-position: 87.65903307888041% 57.12074303405573%;background-size: 436.6167023554604% 2553.1645569620255%;background-image: url(jee_mn_8_apr_2023_s1-0.png);padding: 0; }
 div.JEEMAINS_8APRIL_2023_S1_S_73_4::after {max-width:467px; width:100%;height:0;padding: 0 0 16.916488222698074% 0;}
 .JEEMAINS_8APRIL_2023_S1_S_74 {max-width:659px; max-height:301px; }
-.JEEMAINS_8APRIL_2023_S1_S_74::after {content: '\00a0';display: inline-block; width:659px; height:301px; background-position: 99.927060539752% 0.05892751915144372%;background-size: 308.04248861911987% 663.7873754152824%;background-image: url(jee_mn_8_apr_2023_s1-0.png);padding: 0; }
+.JEEMAINS_8APRIL_2023_S1_S_74::after {content: '\00a0';display: inline-block; width:659px; height:301px; background-position: 99.27536231884058% 0.05827505827505827%;background-size: 309.4081942336874% 670.0996677740864%;background-image: url(jee_mn_8_apr_2023_s1-0.png);padding: 0; }
 div.JEEMAINS_8APRIL_2023_S1_S_74::after {max-width:659px; width:100%;height:0;padding: 0 0 45.6752655538695% 0;}
 .JEEMAINS_8APRIL_2023_S1_S_74_1 {max-width:665px; max-height:77px; }
-.JEEMAINS_8APRIL_2023_S1_S_74_1::after {content: '\00a0';display: inline-block; width:665px; height:77px; background-position: 52.67399267399267% 21.03071317022384%;background-size: 305.2631578947368% 2594.805194805195%;background-image: url(jee_mn_8_apr_2023_s1-0.png);padding: 0; }
+.JEEMAINS_8APRIL_2023_S1_S_74_1::after {content: '\00a0';display: inline-block; width:665px; height:77px; background-position: 99.70887918486171% 15.618556701030927%;background-size: 306.61654135338347% 2619.4805194805194%;background-image: url(jee_mn_8_apr_2023_s1-0.png);padding: 0; }
 div.JEEMAINS_8APRIL_2023_S1_S_74_1::after {max-width:665px; width:100%;height:0;padding: 0 0 11.578947368421053% 0;}
 .JEEMAINS_8APRIL_2023_S1_S_78 {max-width:532px; max-height:367px; }
-.JEEMAINS_8APRIL_2023_S1_S_78::after {content: '\00a0';display: inline-block; width:532px; height:367px; background-position: 0.06675567423230974% 98.09932556713673%;background-size: 381.57894736842104% 544.4141689373297%;background-image: url(jee_mn_8_apr_2023_s1-0.png);padding: 0; }
+.JEEMAINS_8APRIL_2023_S1_S_78::after {content: '\00a0';display: inline-block; width:532px; height:367px; background-position: 0.06635700066357% 96.96969696969697%;background-size: 383.2706766917293% 549.591280653951%;background-image: url(jee_mn_8_apr_2023_s1-0.png);padding: 0; }
 div.JEEMAINS_8APRIL_2023_S1_S_78::after {max-width:532px; width:100%;height:0;padding: 0 0 68.98496240601504% 0;}
 .JEEMAINS_8APRIL_2023_S1_S_8 {max-width:373px; max-height:302px; }
-.JEEMAINS_8APRIL_2023_S1_S_8::after {content: '\00a0';display: inline-block; width:373px; height:302px; background-position: 31.985515992757996% 66.4504716981132%;background-size: 544.2359249329759% 661.5894039735099%;background-image: url(jee_mn_8_apr_2023_s1-0.png);padding: 0; }
+.JEEMAINS_8APRIL_2023_S1_S_8::after {content: '\00a0';display: inline-block; width:373px; height:302px; background-position: 60.2641056422569% 50.96209912536443%;background-size: 546.6487935656836% 667.8807947019867%;background-image: url(jee_mn_8_apr_2023_s1-0.png);padding: 0; }
 div.JEEMAINS_8APRIL_2023_S1_S_8::after {max-width:373px; width:100%;height:0;padding: 0 0 80.9651474530831% 0;}
 .JEEMAINS_8APRIL_2023_S1_S_80_1 {max-width:187px; max-height:132px; }
-.JEEMAINS_8APRIL_2023_S1_S_80_1::after {content: '\00a0';display: inline-block; width:187px; height:132px; background-position: 66.52197504069451% 97.64201500535906%;background-size: 1085.5614973262032% 1513.6363636363637%;background-image: url(jee_mn_8_apr_2023_s1-0.png);padding: 0; }
+.JEEMAINS_8APRIL_2023_S1_S_80_1::after {content: '\00a0';display: inline-block; width:187px; height:132px; background-position: 99.83801295896328% 59.84084880636605%;background-size: 1090.374331550802% 1528.030303030303%;background-image: url(jee_mn_8_apr_2023_s1-0.png);padding: 0; }
 div.JEEMAINS_8APRIL_2023_S1_S_80_1::after {max-width:187px; width:100%;height:0;padding: 0 0 70.58823529411765% 0;}
 .JEEMAINS_8APRIL_2023_S1_S_80_2 {max-width:222px; max-height:63px; }
-.JEEMAINS_8APRIL_2023_S1_S_80_2::after {content: '\00a0';display: inline-block; width:222px; height:63px; background-position: 49.39159292035398% 93.1266149870801%;background-size: 914.4144144144144% 3171.4285714285716%;background-image: url(jee_mn_8_apr_2023_s1-0.png);padding: 0; }
+.JEEMAINS_8APRIL_2023_S1_S_80_2::after {content: '\00a0';display: inline-block; width:222px; height:63px; background-position: 29.389102916895983% 98.77175025588537%;background-size: 918.4684684684685% 3201.5873015873017%;background-image: url(jee_mn_8_apr_2023_s1-0.png);padding: 0; }
 div.JEEMAINS_8APRIL_2023_S1_S_80_2::after {max-width:222px; width:100%;height:0;padding: 0 0 28.37837837837838% 0;}
 .JEEMAINS_8APRIL_2023_S1_S_80_3 {max-width:182px; max-height:142px; }
-.JEEMAINS_8APRIL_2023_S1_S_80_3::after {content: '\00a0';display: inline-block; width:182px; height:142px; background-position: 91.88311688311688% 80.60344827586206%;background-size: 1115.3846153846155% 1407.0422535211267%;background-image: url(jee_mn_8_apr_2023_s1-0.png);padding: 0; }
+.JEEMAINS_8APRIL_2023_S1_S_80_3::after {content: '\00a0';display: inline-block; width:182px; height:142px; background-position: 90.30694668820678% 73.76%;background-size: 1120.3296703296703% 1420.4225352112676%;background-image: url(jee_mn_8_apr_2023_s1-0.png);padding: 0; }
 div.JEEMAINS_8APRIL_2023_S1_S_80_3::after {max-width:182px; width:100%;height:0;padding: 0 0 78.02197802197803% 0;}
 .JEEMAINS_8APRIL_2023_S1_S_80_4 {max-width:163px; max-height:65px; }
-.JEEMAINS_8APRIL_2023_S1_S_80_4::after {content: '\00a0';display: inline-block; width:163px; height:65px; background-position: 75.7364756293519% 99.53440248318675%;background-size: 1245.398773006135% 3073.846153846154%;background-image: url(jee_mn_8_apr_2023_s1-0.png);padding: 0; }
+.JEEMAINS_8APRIL_2023_S1_S_80_4::after {content: '\00a0';display: inline-block; width:163px; height:65px; background-position: 62.153518123667375% 99.33401639344262%;background-size: 1250.920245398773% 3103.076923076923%;background-image: url(jee_mn_8_apr_2023_s1-0.png);padding: 0; }
 div.JEEMAINS_8APRIL_2023_S1_S_80_4::after {max-width:163px; width:100%;height:0;padding: 0 0 39.877300613496935% 0;}
 .JEEMAINS_8APRIL_2023_S1_S_81 {max-width:372px; max-height:190px; }
-.JEEMAINS_8APRIL_2023_S1_S_81::after {content: '\00a0';display: inline-block; width:372px; height:190px; background-position: 57.177322074788904% 78.70575221238938%;background-size: 545.6989247311828% 1051.578947368421%;background-image: url(jee_mn_8_apr_2023_s1-0.png);padding: 0; }
+.JEEMAINS_8APRIL_2023_S1_S_81::after {content: '\00a0';display: inline-block; width:372px; height:190px; background-position: 58.60827834433113% 64.42255062944719%;background-size: 548.1182795698925% 1061.578947368421%;background-image: url(jee_mn_8_apr_2023_s1-0.png);padding: 0; }
 div.JEEMAINS_8APRIL_2023_S1_S_81::after {max-width:372px; width:100%;height:0;padding: 0 0 51.075268817204304% 0;}
 
-/* $TexturePacker:SmartUpdate:64fe99c689ea606538530fa5aecd2271:b45b8531eb75979b6fd652b44998f49b:f8bfcf3811e2fda550ff08b3372388ef$ */
+/* $TexturePacker:SmartUpdate:59b24d0e692a4eddb8acb4de38f7c409:3a42d486676a9239de0450b298c14edd:f8bfcf3811e2fda550ff08b3372388ef$ */
